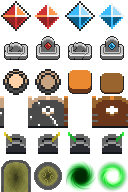
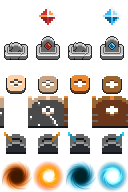
Мелкие исправления в спрайтах, уровнях и коде. Добавление файла requirements.txt.

diff --git a/game.py b/game.py
@@ -15,7 +15,7 @@ TURBO_MODE = False
 
 FPS = 30 if not TURBO_MODE else 100
 PLAYER_STEP = SPRITE_SIZE // (8 if not TURBO_MODE else 4)
-PlAYER_ANIMATION_DURATION = 70 if not TURBO_MODE else 10
+PLAYER_ANIMATION_DURATION = 70 if not TURBO_MODE else 10
 
 # Константы цветов
 BLACK = pygame.Color('black')
@@ -85,6 +85,11 @@ SCREEN_COLORS_DICT = {
 }
 
 
+def get_empty_image(width=SPRITE_SIZE, height=SPRITE_SIZE):
+    image = pygame.Surface((width, height), pygame.SRCALPHA, 32)
+    return image
+
+
 def display_text(surface, text, size, color, x, y):
     """Отображение текста"""
     font = pygame.font.SysFont("sans-serif", size)
@@ -99,13 +104,12 @@ class SpriteSheet:
     """Набор спрайтов"""
 
     def __init__(self, file_name):
-        self.sprite_sheet = pygame.image.load(file_name).convert()
+        self.sprite_sheet = pygame.image.load(file_name).convert_alpha()
 
     def get_image(self, x, y, width, height):
         """Получение фрагмента из набора спрайтов, заданного координатами и размерами"""
-        image = pygame.Surface((width, height)).convert()
+        image = get_empty_image(width, height)
         image.blit(self.sprite_sheet, (0, 0), pygame.Rect(x, y, width, height))
-        image.set_colorkey(BLACK)
         return pygame.transform.scale(image, (width, height))
 
     def get_cell_image(self, col, row, width=SPRITE_SIZE, height=SPRITE_SIZE):
@@ -148,15 +152,9 @@ class BaseSprite(pygame.sprite.Sprite):
         """Сброс сдвига при отображении спрайтов"""
         cls.set_offset(0, 0)
 
-    @staticmethod
-    def get_empty_image(width=SPRITE_SIZE, height=SPRITE_SIZE):
-        image = pygame.Surface((width, height)).convert()
-        image.set_colorkey(BLACK)
-        return image
-
     def __init__(self):
         super().__init__()
-        self.image = self.get_empty_image()
+        self.image = get_empty_image()
         self.rect = self.image.get_rect()
 
     def get_pos(self):
@@ -169,7 +167,7 @@ class BaseSprite(pygame.sprite.Sprite):
         self.rect.centery = y
 
     def set_cell_pos(self, col, row):
-        """Задание позиции спрайта в табличном представлении и  с учётом сдвига"""
+        """Задание позиции спрайта в табличном представлении и с учётом сдвига"""
         new_col = col + self.col_offset
         new_row = row + self.row_offset
         self.set_pos(new_col * SPRITE_SIZE + SPRITE_SIZE // 2,
@@ -259,6 +257,7 @@ class Player(BaseSprite):
         self.last_anim_tick = None
 
     def define_sprite_sheet(self):
+        # Метод реализован в дочерних классах.
         pass
 
     def load_sprites(self):
@@ -352,8 +351,9 @@ class Player(BaseSprite):
         if self.last_anim_tick is None:
             self.current_sprite_index = 0
             do_step = True
-        elif now - self.last_anim_tick > PlAYER_ANIMATION_DURATION:
-            # Если после предыдущего шага прошло достаточно времени, то разрешаем его сделать
+        elif now - self.last_anim_tick > PLAYER_ANIMATION_DURATION:
+            # Если после предыдущего шага прошло достаточно времени,
+            # то разрешается сделать следующий шаг
             # при этом вычисляется индекс следующего кадра анимации
             self.current_sprite_index = (self.current_sprite_index + 1) % len(self.sprites)
             do_step = True
@@ -432,11 +432,11 @@ class ElementSprite(BaseSprite):
 
     def load_images(self):
         """Загрузка 2х спрайтов, для элемента в неактивном и активном состоянии"""
-        image = self.get_empty_image()
+        image = get_empty_image()
         self.images = [image for _ in range(2)]
 
     def set_active(self, active):
-        """Изменение ссостояния активности объекта"""
+        """Изменение состояния активности объекта"""
         pos = self.get_pos()
         self.is_active = active
         # Изменение спрайта
@@ -627,6 +627,7 @@ class Door(ElementSprite):
 
     def update(self):
         if not self.is_interacted and not self.is_active:
+            # Если дверь открыта кнопкой, но в ней стоит игрок, то она не закроется до его ухода
             if not pygame.sprite.collide_rect(self, self.water_player) and \
                     not pygame.sprite.collide_rect(self, self.fire_player):
                 self.set_active(True)
@@ -687,8 +688,8 @@ class Portal(ElementSprite):
         self.other_portal = None
 
     def load_images(self):
-        input_image = self.sprite_sheet.get_cell_image(self.kind * 2, 5)
-        output_image = self.sprite_sheet.get_cell_image(self.kind * 2 + 1, 5)
+        output_image = self.sprite_sheet.get_cell_image(self.kind * 2, 5)
+        input_image = self.sprite_sheet.get_cell_image(self.kind * 2 + 1, 5)
         self.images = [output_image, input_image]
 
     def is_input(self):
@@ -709,9 +710,7 @@ class Portal(ElementSprite):
         if self.is_input() and \
                 self.other_portal is not None:
             subject.reset_walking()
-            new_pos = list(self.other_portal.get_pos())
-            # new_pos[0] += subject.get_pos()[0] - self.get_pos()[0]
-            # new_pos[1] += subject.get_pos()[1] - self.get_pos()[1]
+            new_pos = self.other_portal.get_pos()
             subject.set_pos(*new_pos)
 
 
@@ -732,8 +731,8 @@ class LevelSprite(BaseSprite):
         self.set_cell_pos(col, row)
 
     def define_image(self):
-        """Определение изображения для уровня, в зависимости от того пройден он или нет"""
-        self.image = self.get_empty_image(SPRITE_SIZE, SPRITE_SIZE * 2)
+        """Определение изображения для уровня в зависимости от того, пройден он или нет"""
+        self.image = get_empty_image(SPRITE_SIZE, SPRITE_SIZE * 2)
         if not self.is_unlocked:
             image = self.sprite_sheet.get_cell_image(0, 0)
             color = None
@@ -769,7 +768,7 @@ class Level:
 
     @staticmethod
     def get_kind(elem):
-        """Определение вид элемента по его обзначению"""
+        """Определение вида элемента по его обозначению"""
         return 1 if elem.isupper() else 0
 
     def load_level(self, filename):
@@ -910,8 +909,7 @@ class Screen:
         surface.fill(self.bg_color1)
         pygame.draw.rect(surface, self.bg_color2, self.text_rect)
         pygame.draw.rect(surface, self.shadow_color, self.shadow_rect)
-        image = pygame.image.load(os.path.join(IMG_DIR, IMG_FILE_TITLE)).convert()
-        image.set_colorkey(BLACK)
+        image = pygame.image.load(os.path.join(IMG_DIR, IMG_FILE_TITLE)).convert_alpha()
         rect = image.get_rect()
         surface.blit(image, rect)
 
@@ -1087,7 +1085,7 @@ class Game:
         """Создание новой игры"""
         self.reset_game()
 
-        # Создание обхекта с данными уровня
+        # Создание объекта с данными уровня
         level = Level(levelname)
         # Загрузка сдвига для текущего уровня
         BaseSprite.set_offset(level.col_offset, level.row_offset)
@@ -1215,7 +1213,6 @@ class Game:
                 input_portal.connect_portal(output_portal)
                 output_portal.connect_portal(input_portal)
                 if level_elem_portal_switch in self.connection_dict:
-                    switch: PortalSwitch
                     for switch in self.connection_dict[level_elem_portal_switch]:
                         switch.connect_portals(input_portal, output_portal)
                         for other_switch in self.connection_dict[level_elem_portal_switch]:
